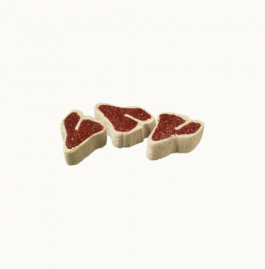
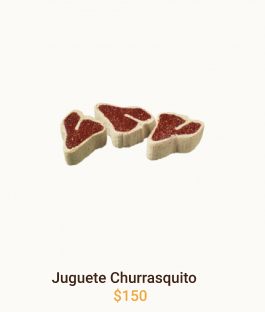
Petshop2 finalizado

Changed region(s): [[0.2113, 0.3271, 0.7849, 0.6245], [0.1811, 0.8625, 0.7547, 0.9814]]

diff --git a/Petshop2/styles/style.css b/Petshop2/styles/style.css
@@ -27,7 +27,7 @@ button{
     border: none;
     color: white;
 }
-/* ----------------------------------------------- HEADER LISTO-------------------------------------------------------------- */
+/* ------------------------------------------------HEADER LISTO-------------------------------------------------------------- */
 #logo{
     background-color: #F0A83E;
     padding-top: 30px;
@@ -91,3 +91,143 @@ button{
     height: 70px;
     width: 200px;
 }
+/* ------------------------------------------------BANNER LISTO-------------------------------------------------------------- */
+.iniTienda{
+    margin-top: 30px;
+    text-align: center;
+    color: #3c2313;
+}
+
+h1{
+    font-size: 1cm;
+    margin-bottom: 20px;
+}
+
+.productos{
+    text-align: center;
+    padding-right: 10px;
+    margin-top: 50px;
+}
+/* ---------------------------------------------------PRODUCTOS LISTO-------------------------------------------------------- */
+.contactanos{
+    margin-top: 100px;
+    text-align: center;
+    color: #3c2313;
+    font-size: 20px;
+}
+
+.contactanos,h2{
+    margin-bottom: 25px;
+}
+
+.contact{
+    background-color: #3c2313;
+    width: 325px;
+    padding: 15px;
+    border-radius: 15px;
+    border: none;
+    margin-bottom: 10px;
+    color: white;
+}
+
+#reset{
+    font-size: 20px;
+    padding-top: 5px;
+    padding-right: 15px;
+    padding-bottom: 10px;
+    padding-left: 15px;
+    background-color: #8A8787;
+    /* margin-left: -100px; */
+    border-radius: 15px;
+    margin-bottom: 50px;
+}
+
+#enviar{
+    background-color: #F0A83E;
+    font-size: 20px;
+    padding-top: 5px;
+    padding-right: 27.5px;
+    padding-bottom: 10px;
+    padding-left: 27.5px;
+    border-radius: 15px;
+    margin-left: 6px;
+}
+
+#sus{
+    background-color: #F0A83E;
+    background-image: url(../images/enviar-correo\ 1.png);
+    background-repeat: no-repeat;
+    background-position-x: 10px;
+    background-position-y: center ;
+    /* padding-top: 5px; */
+    padding-left: 60px ;
+    padding-bottom: 10px;
+    padding-top: 15px;
+    padding-right: 10px;
+    height: auto;
+}
+
+/* 
+#enviarcorreo{
+    background-color: inherit;
+    margin-top: 15px;
+} */
+
+#suscribe{
+    background-color: inherit;
+    margin-bottom: 0;
+    color: white;
+    font-weight: 700;
+    font-size: 20px;
+}
+
+#correo{
+    background-color: white;
+    border-radius: 15px;
+    border: none;
+    padding-top: 10px;
+    padding-bottom: 10px;
+    padding-right: 20px;
+    padding-left: 5px;
+    color: #A0A0A0;
+    width: 250px;
+    margin-left: 600px;
+}
+
+#suscribirme{
+    background-color: #3c2313;
+    border-radius: 15px;
+    padding: 10px 5px;
+    margin-left: 5px;
+}
+/* ----------------------------------------------------------------SUSCRIPCIÓN LISTO----------------------------------------- */
+#pie{
+    height: 240px;
+    background-color: #3c2313;
+    background-image: url(../images/LogoFooter.png);
+    background-repeat: no-repeat;
+    background-position-x: 1100px;
+    background-position-y: center ;
+    padding-top: 23px;
+    padding-left: 70px;
+}
+
+.pie,#location,#phone,#correoElect{
+    background-color: inherit;
+    position: absolute;
+}
+
+#location{
+    margin-top: 80px;
+}
+
+#correoElect{
+    margin-top: 160px;
+}
+
+#footer{    
+    background-color: #222222;
+    text-align: center;
+    color: white;
+}
+/* ---------------------------------------------------FOOTER LISTO----------------------------------------------------------- */

diff --git a/Petshop2/index.html b/Petshop2/index.html
@@ -14,16 +14,62 @@
     </header>
 
     <main>
+        <section>
         <div id="espacio">
             <img src="images/Logo.png" alt="Logo" id="logo">
             <span class="menuPrin"><img src="images/pawprint 2.png" alt="patita" class="patitasMenu">Categorias</span> <span class="menuPrin"><img src="images/pawprint 2.png" alt="patita" class="patitasMenu">Pets</span> <span class="menuPrin"><img src="images/pawprint 2.png" alt="patita" class="patitasMenu">Nosotros</span> <span class="menuPrin"><img src="images/pawprint 2.png" alt="patita" class="patitasMenu">Contactanos</span>
         </div>
+        </section>
 
+        <section>
         <div id="banner">
             <span class="placer"> ¡Es un placer tenerte aquí! </span>
             <span class="placer" id="descuentosBanner"> ¡Comederos en descuento! </span>
             <button class="placer" id="comederosbn">COMEDEROS</button>
         </div>
+        </section>
+
+        <section>
+            <div class="iniTienda">
+                <img src="images/pawprint 1.png" alt="pawprint1"> 
+                <h1>Productos Destacados</h1>
+                <p>Comederos - Accesorios - Comida</p>
+            </div>
+        </section>
+
+        <section>
+            <div class="productos">
+                <img src="images/Churrasquito.png" alt="Churrasquito"> <img src="images/Comedero.png" alt="Comedero"> <img src="images/Huesito juguete.png" alt="">
+            </div>
+        </section>
+
+        <section>
+            <div class="contactanos">
+                <h2>Contáctanos</h2>
+                <p><input class="contact" type="text" value="Nombre y apellido"></p>
+                <p><input class="contact" type="text" value="Ingresá tu correo electrónico"></p>
+                <p><input class="contact" type="text" value="Teléfono"></p>
+                <p><button id="reset">Resetear</button><button id="enviar">Enviar</button></p>
+            </div>
+        </section>
+
+        <section>
+            <div id="sus">
+                <span id="suscribe">Suscríbite para más novedades</span><input type="text" value="Ingresá tu correo electrónico" id="correo"> <button id="suscribirme">Suscribirme</button>
+            </div>
+        </section>
+
+        <section id="pie">
+            <div class="pie">
+                <img src="images/Location.png" alt="" id="location">
+                <img src="images/Phone.png" alt="" id="phone">
+                <img src="images/Correo.png" alt="" id="correoElect">
+            </div>
+        </section>
     </main>
+
+    <footer>
+        <p id="footer">Todos los derechos reservados Front End</p>
+    </footer>
 </body>
 </html>

diff --git a/cvBatman/index.html b/cvBatman/index.html
@@ -11,8 +11,7 @@
         <h1 id="principal">CURRICULUM VITAE DE BRUCE WAYNE</h1>
     </header>
 
-    <br><br><br>
-
+    <div class="espacio"></div>
     <main>
         <h2 class="secundarios">DATOS PERSONALES</h2>
         <ul>
@@ -27,25 +26,25 @@
             <li class="sangria">Licenciatura en aeronaútica</li>
             <br>
             <li><b>1952-1956:</b> Secundario Gotham</li> 
-            <li class="sangria"> Bachiller con especialización en trucos</li>
+            <li> Bachiller con especialización en trucos</li>
         </ul>
 
         <h2 class="secundarios">EXPERIENCIA LABORAL </h2>
         <ul type="none">
             <li><b>1975-1985:</b>Desocupado</li>
-            <li class="sangria">Sin trabajo porque se me rompió el batimovil</li>
+            <li>Sin trabajo porque se me rompió el batimovil</li>
             <br>
             <li><b>1965-1975:</b>Cazavillanos y demás chusma </li>
-            <li class="sangria">Atrapé a Gatubela a Joker a Victor Fries lo dejé porque se me congeló la capa</li> <br>
+            <li>Atrapé a Gatubela a Joker a Victor Fries lo dejé porque se me congeló la capa</li> <br>
             <li><b>1962-1965:</b>Aprendiz de superhéroes</li>
-            <li class="sangria">Hice pasantía con Superman. Opté por usar mascara porque no pude aprender a peinarme el rulo</li>
+            <li>Hice pasantía con Superman. Opté por usar mascara porque no pude aprender a peinarme el rulo</li>
         </ul>
     </main>
 
     <br>
 
     <footer>
-        <p>0810 - BATMAN <img src="images/ico_instagram.png" alt="Instagram"> <img src="images/ico_linkedin.png" alt="linkedin"></p> 
+        <p>0810 - BATMAN <img src="images/ico_instagram.png" alt="Instagram"> <img src="images/ico_linkedin.png" alt="linkedin"></p>
     </footer>
 </body>
 </html>

diff --git a/Petshop/index.html b/Petshop/index.html
@@ -7,19 +7,28 @@
 
 <body>
     <header>
-        Grandes ofertas en comederos <span id="cabeza">Menú regional Español $ARG</span>             
-        </header>
+        <section>
+            <span id="cabeza">Grandes ofertas en comederos</span> <element><a href="#" class="menuizq">Español</a><a href="#" class="menuizq">ARG$</a></element>
+        </section>
+        <section id="logo">
+            <img src="images/Logo.png" alt="Logo">
+            <ul type="none">
+                <section>
+                    <element class="menuInicial">
+                    Categorias
+                    Pets
+                    Nosotros
+                    Contactanos
+                    </element>
+                    </section>
+                </section>
+            </ul>
+        </section>       
+    </header>
     <hr>
     <main>
         <section>
-            <p id="titulo"><img src="images/Cat.png" alt="Gatito"> FrontCat&Dog <img src="images/Dog.png" alt="Perrito"></p>
             <nav id="menu">
-                <ul type="none">
-                    <li>Categorias</li>
-                    <li>Pets</li>
-                    <li>Nosotros</li>
-                    <li>Contactanos</li>
-                </ul>
             </nav>
             <hr>
             <img src="images/bowl-and-pet-daities-on-green-background 1.jpg" alt="Baner plato de comida para mascotas">

diff --git a/cvBatman/styles/style.css b/cvBatman/styles/style.css
@@ -1,24 +1,38 @@
+*{
+    font-family: 'Times New Roman', Times, serif;
+    padding: 0;
+    margin: 0;
+}
 .encabezado {
+    background-image: url(../images/baticueva.jpg);
+    background-position: bottom center;
     background-color: rgb(209, 209, 209);
     text-align: center;
 }
+
+.espacio{
+    height: 133px;
+}
+
 #principal {
     background-color: rgb(184, 184, 184);
-    color: rgb(35, 99, 182) ;
+    color: #005677;
 }
 .secundarios {
     background-color: rgb(184, 184, 184);
-    color: rgb(35, 99, 182);
+    color: #005677;
+    margin-bottom: 20px;
 }
 
-.sangria {
-    text-indent: 80px;
+ul{
+    margin-bottom: 15px;
 }
 
 footer {
-    background-color: rgb(0, 71, 138);
+    background-color: #005677;
     color: white;
     font-weight: bold;
     text-align: center;
-    padding: 2px;
+    padding-top: 5px;
+    padding-bottom: 5px;
 }

diff --git a/Petshop/css/styles.css b/Petshop/css/styles.css
@@ -1,3 +1,31 @@
-#cabeza {
-    color: orange;
+*{
+    font-family: -apple-system, BlinkMacSystemFont, 'Segoe UI', Roboto, Oxygen, Ubuntu, Cantarell, 'Open Sans', 'Helvetica Neue', sans-serif;
+    margin: 0;
+    padding: 0;
+}
+header{
+    background-color: #222222;
+    background-size: cover;
+    color: white;
+}
+
+#cabeza{
+    padding-left: 80px;
+}
+
+.menuizq{
+    text-decoration: none;
+    color: white;
+    text-align: right;
+}
+
+#logo{
+    background-color: #F0A83E;
+    padding-top: 25px;
+    padding-left: 25px;
+    padding-bottom: 25px;
+}
+
+.menuinicial{
+    text-align: right;
 }
